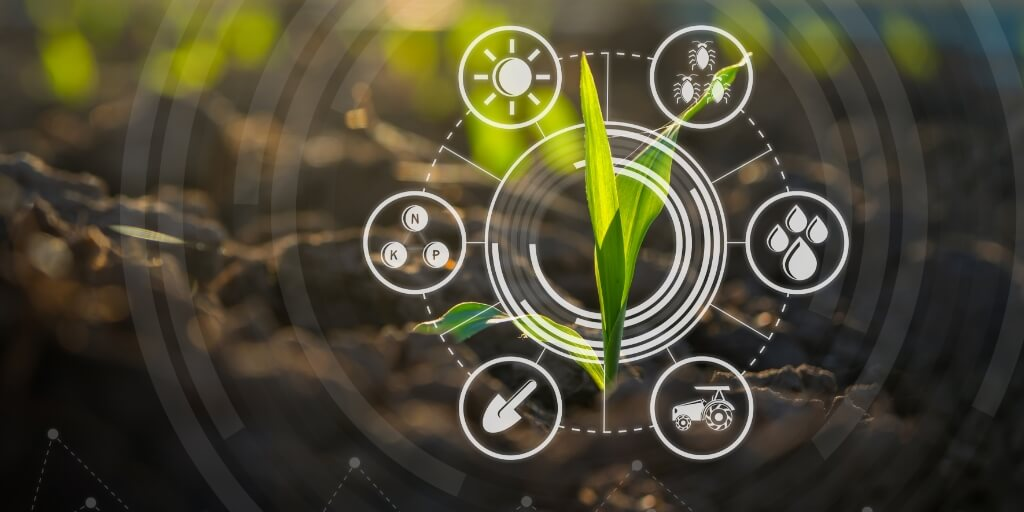
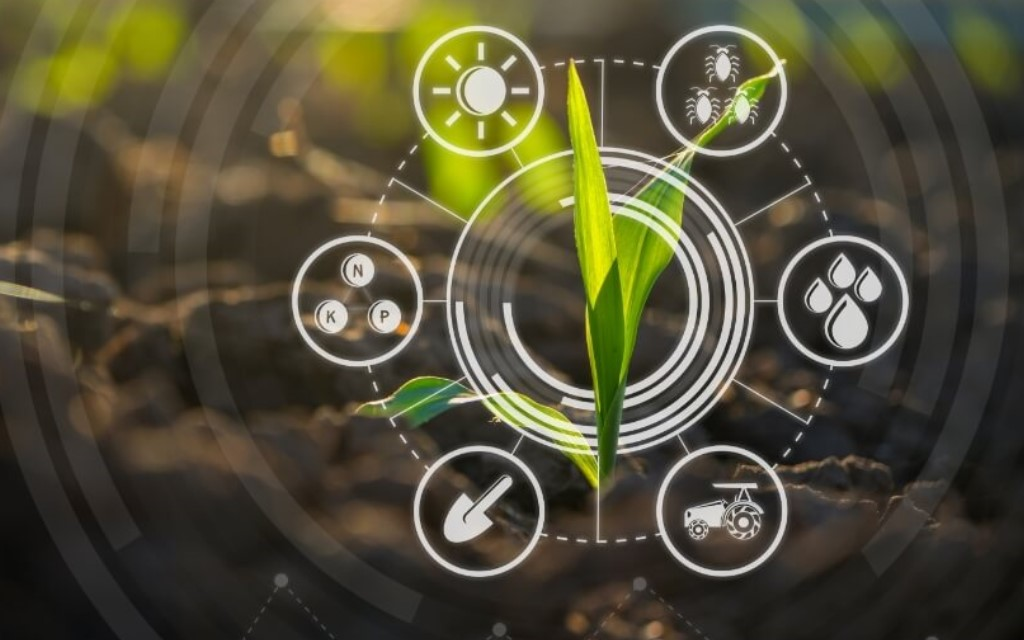
Agroatualizado

diff --git a/index.html b/index.html
@@ -63,7 +63,7 @@
                             <div class="icon1">
                                 <i class="icon1"></i>
                             </div>
-                            <p class="description">Produtos Frescos</p>
+                            <p class="description">Orgânicos Fresquinhos</p>
                         </div>
                     </div>
                     <div class="box2">
@@ -89,7 +89,7 @@
                             <div class="icon4">
                                 <i class=""></i>
                             </div>
-                            <p class="description">Notificações em nossa newsletter</p>
+                            <p class="description">Notificações de nossa newsletter</p>
                         </div>
                     </div>
                 </div>
@@ -103,15 +103,15 @@
          Ideias inovadoras para um mundo melhor... Para quem é essa plataforma?
             </h2>
             <p class="paragrafo">
-                Desenvolvido para agricultores que desejam vender seus produtos e cultivos de maneira a tratar diretamente com os possíveis compradores. 
-E também para comerciantes que desejam comprar os produtos para os mais diversos fins, seja eles, representantes comerciais, donos de restaurantes, vendedores, etc.
+                Desenvolvida para agricultores que desejam vender seus produtos e cultivos de maneira a tratar diretamente com os possíveis compradores. 
+E também para comerciantes que desejam comprar os produtos para os mais diversos fins, sejam eles, representantes comerciais, donos de restaurantes, vendedores, etc.
             </p>
         </div>
         <img class="ilustracao-lampada-icon" src="images/lampadaagro.png" alt="">
     </section>
 
     <section class="gulliver-container">
-        <img class="gulliver-img" src="images/real-agro.png" alt="">
+        <img class="gulliver-img" src="images/pngegg.png" alt="">
         <div class="gulliver-texts">
             <h2 class="title-h2-left">
             Qual o problema resolvido?
@@ -263,7 +263,7 @@ E também para comerciantes que desejam comprar os produtos para os mais diverso
     <div class="newsletter">
         <div class="newsletter-title">
             <h2 class="title-h2">
-                Faça seu cadastro
+                Faça o seu cadastro
             </h2>
         </div>
         <p class="paragrafo">

diff --git a/Styles.css b/Styles.css
@@ -511,7 +511,7 @@ flex-direction: column;
 align-items: flex-start;
 justify-content: flex-start;
 border-radius: 16px;
-background: #2A3B6C;
+background: #27380e;
 box-shadow: 6px 12px 12px rgba(0, 0, 0, 0.25);
 padding: 32px;
 gap: 32px;
